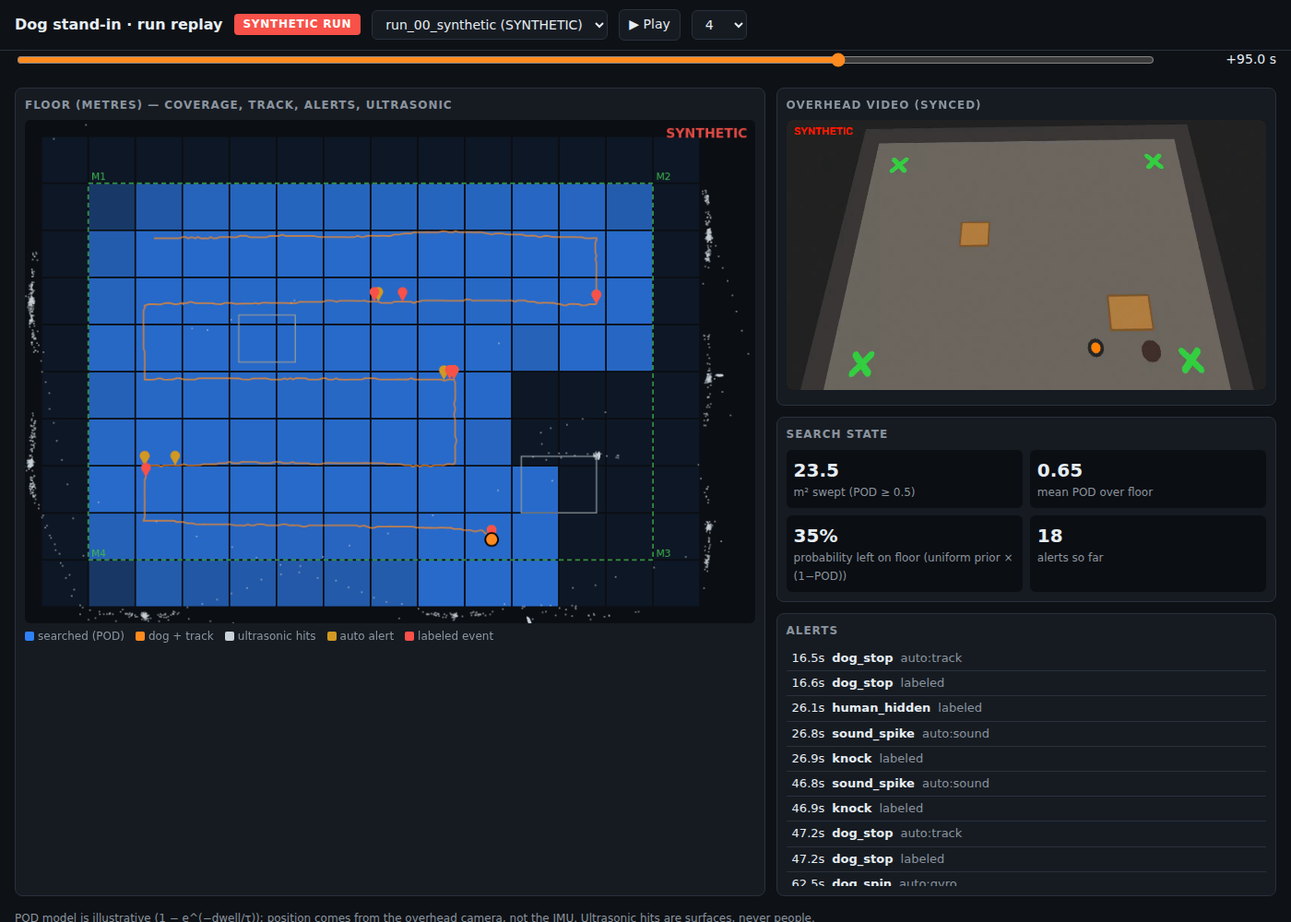
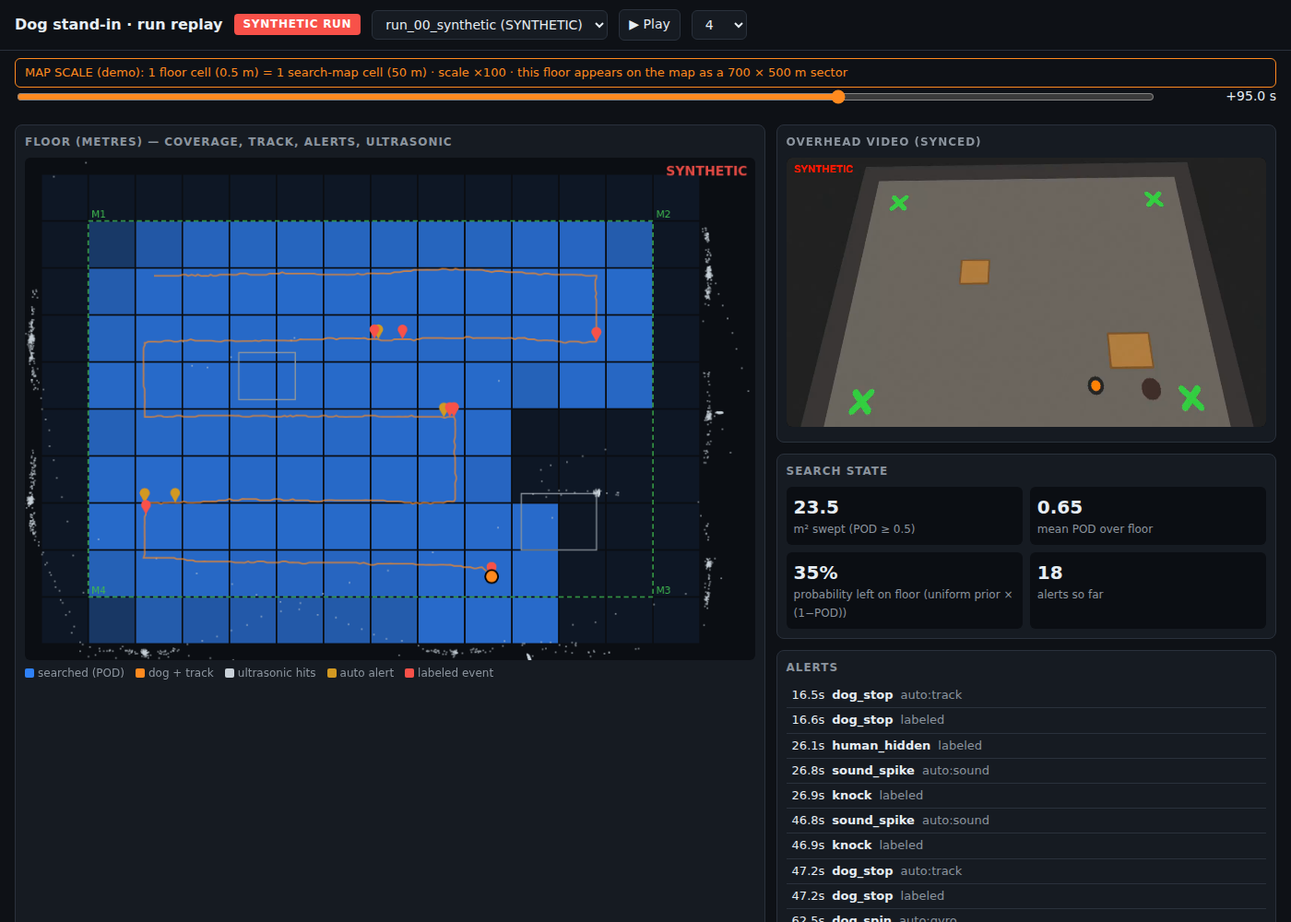
night: a-u-G/a-f-G pin types, review decisions

diff --git a/spark/night/code/map/index.html b/spark/night/code/map/index.html
@@ -130,7 +130,10 @@ function draw(){
   const P=META.personas[$('persona').value];
   if(layers.rings){ g.strokeStyle='rgba(255,255,255,.55)'; g.lineWidth=1*dpr; g.font=`${11*dpr}px system-ui`; g.fillStyle='rgba(255,255,255,.8)'; const [cx,cy]=W2S(0,0);
     P.q.forEach((r,i)=>{ g.beginPath(); g.arc(cx,cy,r*view.s*dpr,0,7); g.setLineDash([5*dpr,4*dpr]); g.stroke(); g.setLineDash([]); g.fillText(['25%','50%','75%','95%'][i]+' '+(r/1000)+' km',cx+r*view.s*dpr*0.707+4,cy-r*view.s*dpr*0.707); }); }
-  if(layers.dog && S.dog){ g.strokeStyle='#ff8a1f'; g.lineWidth=2*dpr; poly(S.dog.outline_en,true); g.stroke(); const [x,y]=W2S(S.dog.outline_en[0][0],S.dog.outline_en[0][1]); g.fillStyle='#ff8a1f'; g.font=`bold ${11*dpr}px system-ui`; g.fillText('dog sector'+(S.dog.synthetic?' (SYNTHETIC)':''),x,y-5*dpr); }
+  if(layers.dog && S.dog){ g.strokeStyle='#ff8a1f'; g.lineWidth=2*dpr; poly(S.dog.outline_en,true); g.stroke(); const [x,y]=W2S(S.dog.outline_en[0][0],S.dog.outline_en[0][1]); g.fillStyle='#ff8a1f'; g.font=`bold ${11*dpr}px system-ui`; const l1='dog sector'+(S.dog.synthetic?' (SYNTHETIC)':''), l2=`1 floor cell (${S.dog.floor_cell_m} m) = 1 map cell (${S.dog.map_cell_m} m)`;
+    g.font=`bold ${12*dpr}px system-ui`; const w=Math.max(g.measureText(l1).width,g.measureText(l2).width)+12*dpr;
+    g.fillStyle='rgba(14,17,22,.88)'; g.fillRect(x-2*dpr,y-36*dpr,w,32*dpr); g.strokeStyle='#ff8a1f'; g.lineWidth=1*dpr; g.strokeRect(x-2*dpr,y-36*dpr,w,32*dpr);
+    g.fillStyle='#ff8a1f'; g.fillText(l1,x+4*dpr,y-22*dpr); g.font=`bold ${11.5*dpr}px system-ui`; g.fillText(l2,x+4*dpr,y-8*dpr); }
   // IPP
   { const [x,y]=W2S(0,0); g.fillStyle='#fff'; g.strokeStyle='#000'; g.lineWidth=2*dpr; g.beginPath(); g.moveTo(x,y-9*dpr); g.lineTo(x+7*dpr,y+5*dpr); g.lineTo(x-7*dpr,y+5*dpr); g.closePath(); g.fill(); g.stroke(); g.font=`bold ${11*dpr}px system-ui`; g.fillText('IPP/LKP',x+9*dpr,y+4*dpr); }
   // clues
@@ -177,7 +180,7 @@ async function load(){
   $('clist').innerHTML=(S.clues||[]).slice().reverse().map(c=>`<div class="clue ${c.active?'':'off'}"><b>K${c.i} ${c.label}</b> <button onclick="toggle(${c.i})">${c.active?'disable':'enable'}</button><br>${c.note?c.note+'<br>':''}${c.pod!==undefined?'POD '+c.pod+(c.pod_calc?' = '+c.pod_calc:'')+'<br>':''}${c.photo?'photo sha256 '+c.photo_sha256.slice(0,12)+'…<br>':''}<span>${c.prov}</span>${c.proposed_by?'<br>type proposed by '+c.proposed_by:''}<br>by ${c.operator} · ${new Date(c.t*1000).toLocaleTimeString()}</div>`).join('')||'none yet';
   $('cap').textContent=(100*S.probability_captured).toFixed(2)+' %';
   $('dogrun').innerHTML=S.dog?(S.dog.run+(S.dog.synthetic?' <span class="badge syn">SYNTHETIC</span>':'')):'—';
-  $('dognote').textContent=S.dog?`Demo scaling: 1 floor metre = ${S.dog.scale} map metres (the venue floor stands in for a ${Math.round(6*S.dog.scale)} × ${Math.round(4*S.dog.scale)} m sector). POD per cell from the rover's dwell model (illustrative).`:'';
+  $('dognote').innerHTML=S.dog?`<b style="color:var(--acc)">Demo scale: 1 floor cell (${S.dog.floor_cell_m} m) = 1 map cell (${S.dog.map_cell_m} m)</b> (×${S.dog.scale}); the venue floor stands in for a ${S.dog.sector_m[0]} × ${S.dog.sector_m[1]} m sector.${S.dog.cells_match?'':' WARNING: cells do not match.'} POD per cell from the rover's dwell model (illustrative).`:'';
   draw();
 }
 async function pollContacts(){ try{ const r=await (await fetch('api/contacts')).json(); const lat0=META.lkp.lat, lon0=META.lkp.lon, R=6371008.8;

diff --git a/spark/night/code/fusion/console.html b/spark/night/code/fusion/console.html
@@ -34,7 +34,7 @@ pre{white-space:pre-wrap;word-break:break-all;font-size:11.5px;margin:0;color:#c
   <div class="card"><h2>Contacts (nothing is confirmed without a human)</h2>
     <table><thead><tr><th>id</th><th>p(person)</th><th>sources</th><th>where</th><th>status</th><th></th></tr></thead><tbody id="ct"></tbody></table></div>
   <div class="card"><h2>After-action review</h2><div class="kv" id="aar"></div></div>
-  <div class="card"><h2>Last CoT (validated against cot-validator XSD)</h2><pre id="cot">—</pre></div>
+  <div class="card"><h2>Last CoT pin (a-u-G unconfirmed → a-f-G confirmed; validated against cot-validator XSD)</h2><pre id="cot">—</pre></div>
 </div>
 <div class="card chain"><h2>Evidence chain (SHA-256, newest first)</h2><div id="chain"></div></div>
 </main>
@@ -54,8 +54,8 @@ async function refresh(){
     <td class="st-${c.status}">${c.status}${c.operator_id?'<br><span class=src>'+esc(c.operator_id)+'</span>':''}</td>
     <td>${c.status==='candidate'?`<button class="go" onclick="act('confirm','${c.contact_id}')">Confirm</button> <button class="no" onclick="act('clear','${c.contact_id}')">Clear</button>`:''}</td></tr>`).join('')||'<tr><td colspan=6 class=src>no contacts yet — sensors write to night/inbox/</td></tr>';
   const lastCot=[...ch].reverse().find(r=>r.type==='cot_written');
-  if(lastCot && lastCot.payload.contact_id!==window._cotShown){ window._cotShown=lastCot.payload.contact_id;
-    fetch('cot/'+lastCot.payload.contact_id).then(r=>r.text()).then(x=>{ $('cot').textContent=(lastCot.payload.valid?'✔ valid against ':'✘ INVALID against ')+lastCot.payload.xsd+'  sha256 '+lastCot.payload.sha256.slice(0,16)+'…\n\n'+x; }); }
+  if(lastCot && lastCot.payload.sha256!==window._cotShown){ window._cotShown=lastCot.payload.sha256;
+    fetch('cot/'+lastCot.payload.contact_id).then(r=>r.text()).then(x=>{ $('cot').textContent=lastCot.payload.contact_id+' '+lastCot.payload.type+' ('+lastCot.payload.status+') · '+(lastCot.payload.valid?'✔ valid against ':'✘ INVALID against ')+lastCot.payload.xsd+'  sha256 '+lastCot.payload.sha256.slice(0,16)+'…\n\n'+x; }); }
   $('chain').innerHTML=ch.reverse().map(r=>`<div><b>#${r.seq}</b> ${r.type} <span class="src">${r.ts.slice(11,19)}Z</span> ${r.payload.sensor?esc(r.payload.sensor+':'+r.payload.kind):''}${r.payload.contact?esc(r.payload.contact.contact_id):''}<br><code>${r.hash.slice(0,24)}… ← ${r.prev.slice(0,12)}…</code></div>`).join('');
   const f=x=>x==null?'—':x;
   $('aar').innerHTML=`<span>time to first contact</span><b>${f(a.time_to_first_contact_s)} s</b>

diff --git a/spark/night/code/dog/replay.html b/spark/night/code/dog/replay.html
@@ -42,6 +42,7 @@ footer{color:var(--mute);font-size:12px;padding:4px 16px 16px}
   <button id="play">▶ Play</button>
   <select id="speed" aria-label="Speed"><option>1</option><option selected>4</option><option>8</option><option>16</option></select>
 </header>
+<div id="scalebar" style="margin:8px 16px 0;padding:6px 10px;border:1px solid var(--acc);border-radius:6px;color:var(--acc);font-size:13px">map scale: loading…</div>
 <div class="timeline"><input id="scrub" type="range" min="0" max="1000" value="0" aria-label="Time"><span id="clock">—</span></div>
 <main>
   <div class="card">
@@ -78,10 +79,14 @@ async function loadRuns(){
   $('run').innerHTML=r.map(x=>`<option value="${x.name}">${x.name}${x.synthetic?' (SYNTHETIC)':''}</option>`).join('');
   if(r.length) load(r[0].name);
 }
+async function scaleLabel(){ try{ const k=await (await fetch('api/scale')).json(); const fc=L?L.coverage.cell_m:0.5;
+  const ok=Math.abs(fc*k.scale-k.map_cell_m)<1e-6; const [x0,y0,x1,y1]=L?L.floor_bounds:[0,0,6,4];
+  $('scalebar').textContent=`MAP SCALE (demo): 1 floor cell (${fc} m) = 1 search-map cell (${k.map_cell_m} m) · scale ×${k.scale} · this floor appears on the map as a ${Math.round((x1-x0)*k.scale)} × ${Math.round((y1-y0)*k.scale)} m sector`+(ok?'':' · WARNING: cells do not match');
+ }catch(e){ $('scalebar').textContent='map scale: unavailable'; } }
 async function load(name){
   runName=name; L=await (await fetch(`api/run/${name}/layers`)).json();
   $('badge').textContent=L.synthetic?'SYNTHETIC RUN':'REAL RUN'; $('badge').className='badge '+(L.synthetic?'syn':'real');
-  $('vid').src=`api/run/${name}/video`; t=L.t_start_ms; draw();
+  $('vid').src=`api/run/${name}/video`; t=L.t_start_ms; draw(); scaleLabel();
 }
 $('run').onchange=e=>load(e.target.value);
 function W2C(){ const [x0,y0,x1,y1]=L.floor_bounds, pad=20; const s=Math.min((cv.width-2*pad)/(x1-x0),(cv.height-2*pad)/(y1-y0));

diff --git a/spark/night/code/fusion/fuse.py b/spark/night/code/fusion/fuse.py
@@ -11,8 +11,11 @@ Nothing becomes confirmed without POST /confirm {contact_id, operator_id}.
 Evidence: every ingested detection, new contact, contact update, confirm, clear and CoT write is
   appended to night/evidence/chain.jsonl as {seq, ts, type, payload, prev, hash} with
   hash = sha256(prev + canonical_json({seq, ts, type, payload})). GET /verify re-walks the chain.
-CoT: each confirmed contact -> night/evidence/cot/<uid>.xml, validated against the cot-validator
-  XSD ("Marker - 2525.xsd"); validation result is chained too.
+CoT: every contact is emitted as CoT, validated against the cot-validator XSD ("Marker - 2525.xsd"):
+  candidate -> type a-u-G (unknown ground); after a human confirms, the SAME uid is re-emitted as
+  a-f-G (friendly ground) so ATAK updates the pin in place. a-h-* (hostile) is refused: a survivor is not
+  hostile. Files: evidence/cot/<uid>.xml (current) + <uid>.candidate.xml / <uid>.confirmed.xml; every
+  write is chained (type, XSD result, sha256).
 
   python fuse.py [port]          # service
   python fuse.py --verify        # verify chain, exit 1 on break
@@ -104,16 +107,30 @@ def verify_chain(path: Path = CHAIN) -> dict:
 
 
 # ---------------- CoT ----------------
+def cot_type(status: str) -> str:
+    cc = CFG["cot"]
+    t = cc["type_confirmed"] if status == "confirmed" else cc["type_candidate"]
+    if t.lower().startswith("a-h"):
+        raise ValueError(f"refusing CoT type {t}: a survivor is not hostile (use a-u-G / a-f-G)")
+    return t
+
+
+for _st in ("candidate", "confirmed"):      # fail at start-up, not mid-demo, if the config is wrong
+    cot_type(_st)
+
+
 def cot_xml(c: dict) -> str:
     now = datetime.now(timezone.utc)
     f = lambda d: d.strftime("%Y-%m-%dT%H:%M:%S.%f")[:-3] + "Z"  # noqa: E731
     cc = CFG["cot"]; uid = cc["uid_prefix"] + c["contact_id"]
+    typ = cot_type(c.get("status", "candidate"))
     srcs = ", ".join(f"{s['sensor']}:{s['kind']}={s['confidence']:.2f}" for s in c["sources"])
-    remarks = (f"p_person={c['p_person']:.2f}; sources: {srcs}; confirmed by {c['operator_id']} at {c['confirmed_at']}; "
-               f"evidence chain seq {c.get('chain_seq')}")
+    who = (f"CONFIRMED by {c['operator_id']} at {c['confirmed_at']}" if c.get("status") == "confirmed"
+           else "UNCONFIRMED candidate: machine detection, awaiting human confirm")
+    remarks = f"p_person={c['p_person']:.2f}; sources: {srcs}; {who}; evidence chain seq {c.get('chain_seq')}" 
     from xml.sax.saxutils import quoteattr, escape
     return (f'<?xml version="1.0" encoding="UTF-8"?>\n'
-            f'<event version="2.0" uid={quoteattr(uid)} type="{cc["type"]}" time="{f(now)}" start="{f(now)}" '
+            f'<event version="2.0" uid={quoteattr(uid)} type="{typ}" time="{f(now)}" start="{f(now)}" '
             f'stale="{f(now + timedelta(minutes=cc["stale_min"]))}" how="{cc["how"]}">'
             f'<point lat="{c["lat"]:.7f}" lon="{c["lon"]:.7f}" hae="9999999.0" ce="{c["ce_m"]:.1f}" le="9999999.0"/>'
             f'<detail><contact callsign={quoteattr("LF " + c["contact_id"] + " p=" + format(c["p_person"], ".2f"))}/>'
@@ -208,8 +225,23 @@ class Fusion:
             fs = float(CFG["floor_anchor"].get("scale", 1.0))
             best["ce_m"] = round(1.0 * fs if frame == "floor" else 10.0 if k > 1 else 25.0, 1)
             best["lat"], best["lon"] = en_to_ll(best["e"], best["n"])
-            self.chain.append(typ, {"contact": self.public(best), "by_detection": det["chain_seq"]})
+            rec = self.chain.append(typ, {"contact": self.public(best), "by_detection": det["chain_seq"]})
+            best["chain_seq"] = rec["seq"]
+            self.write_cot(best)       # a-u-G while candidate; a confirmed contact stays a-f-G on updates
             return best
+
+    def write_cot(self, c: dict) -> dict:
+        xml = cot_xml(c)
+        ok, msg = validate_cot(xml)
+        out = EVID / "cot"; out.mkdir(parents=True, exist_ok=True)
+        base = f"{CFG['cot']['uid_prefix']}{c['contact_id']}"
+        path = out / f"{base}.xml"; path.write_text(xml)
+        (out / f"{base}.{c.get('status', 'candidate')}.xml").write_text(xml)
+        typ = cot_type(c.get("status", "candidate"))
+        self.chain.append("cot_written", {"contact_id": c["contact_id"], "type": typ, "status": c.get("status"),
+                                          "path": str(path), "xsd": XSD.name, "valid": ok, "detail": msg,
+                                          "sha256": hashlib.sha256(xml.encode()).hexdigest()})
+        return {"cot_path": str(path), "cot_valid": ok, "cot_detail": msg, "cot_type": typ}
 
     def public(self, c):
         return {k: v for k, v in c.items() if not k.startswith("_")}
@@ -225,13 +257,7 @@ class Fusion:
             c["confirmed_at"] = datetime.now(timezone.utc).isoformat(timespec="seconds")
             rec = self.chain.append("contact_confirmed", {"contact": self.public(c), "operator_id": operator_id})
             c["chain_seq"] = rec["seq"]
-            xml = cot_xml(c)
-            ok, msg = validate_cot(xml)
-            out = EVID / "cot"; out.mkdir(parents=True, exist_ok=True)
-            path = out / f"{CFG['cot']['uid_prefix']}{cid}.xml"; path.write_text(xml)
-            self.chain.append("cot_written", {"contact_id": cid, "path": str(path), "xsd": XSD.name, "valid": ok,
-                                              "detail": msg, "sha256": hashlib.sha256(xml.encode()).hexdigest()})
-            return {"contact": self.public(c), "cot_path": str(path), "cot_valid": ok, "cot_detail": msg}
+            return {"contact": self.public(c), **self.write_cot(c)}     # same uid re-emitted as a-f-G
 
     def clear(self, cid, operator_id, reason=""):
         with self.lock:

diff --git a/spark/night/code/tests/test_night.py b/spark/night/code/tests/test_night.py
@@ -60,12 +60,20 @@ def test_fusion_confirm_cot_chain(client):
     assert {s["sensor"] for s in floor["sources"]} == {"dog1", "tap3"}
     assert abs(floor["p_person"] - (1 - (1 - .3 * .3) * (1 - .85 * .95))) < 1e-3
     assert floor["status"] == "candidate"
+    cand = c.get(f"/cot/{floor['contact_id']}").text            # unconfirmed contact -> a-u-G, XSD-valid
+    assert 'type="a-u-G"' in cand and "UNCONFIRMED" in cand
+    assert fuse.validate_cot(cand)[0]
     r = c.post("/confirm", json={"contact_id": floor["contact_id"], "operator_id": "op1"})
-    assert r.status_code == 200 and r.json()["cot_valid"], r.text
+    assert r.status_code == 200 and r.json()["cot_valid"] and r.json()["cot_type"] == "a-f-G", r.text
     assert c.post("/confirm", json={"contact_id": "C99", "operator_id": "op1"}).status_code == 404
     assert c.post("/confirm", json={"contact_id": floor["contact_id"], "operator_id": ""}).status_code == 422
-    xml = c.get(f"/cot/{floor['contact_id']}").text
-    assert 'type="a-h-G"' in xml and "op1" in xml
+    xml = c.get(f"/cot/{floor['contact_id']}").text            # same uid re-emitted as friendly
+    assert 'type="a-f-G"' in xml and "CONFIRMED by op1" in xml
+    uid = 'uid="NIGHT-' + floor["contact_id"] + '"'
+    assert uid in xml and uid in cand
+    assert "a-h" not in xml and "a-h" not in cand
+    types = [x["payload"]["type"] for x in c.get("/chain?tail=500").json() if x["type"] == "cot_written"]
+    assert "a-u-G" in types and types[-1] == "a-f-G" and not any(t.startswith("a-h") for t in types)
     v = c.get("/verify").json()
     assert v["ok"] and v["records"] >= 6
 
@@ -93,12 +101,18 @@ def test_inbox_rejects_malformed(client):
     assert any(r["type"] == "inbox_rejected" for r in c.get("/chain").json())
 
 
-def test_cot_xsd_rejects_bad_lat():
+def test_cot_xsd_and_type_guard(monkeypatch):
     sys.modules.pop("fuse", None)
     import fuse
-    x = fuse.cot_xml({"contact_id": "C1", "lat": 200.0, "lon": 0.0, "ce_m": 5, "p_person": .5, "sources": [],
-                      "operator_id": "o", "confirmed_at": "t"})
-    assert not fuse.validate_cot(x)[0]
+    base = {"contact_id": "C1", "lat": 41.3, "lon": -81.75, "ce_m": 5, "p_person": .5, "sources": [],
+            "operator_id": "o", "confirmed_at": "t"}
+    for st, typ in (("candidate", "a-u-G"), ("confirmed", "a-f-G")):
+        x = fuse.cot_xml({**base, "status": st})
+        assert f'type="{typ}"' in x and fuse.validate_cot(x)[0]
+    assert not fuse.validate_cot(fuse.cot_xml({**base, "lat": 200.0}))[0]        # XSD rejects bad lat
+    monkeypatch.setitem(fuse.CFG["cot"], "type_confirmed", "a-h-G")              # hostile is refused
+    with pytest.raises(ValueError):
+        fuse.cot_xml({**base, "status": "confirmed"})
 
 
 # ---------------- map model ----------------

diff --git a/spark/night/code/map/serve.py b/spark/night/code/map/serve.py
@@ -76,7 +76,9 @@ def dog_coverage():
     x0, y0, x1, y1 = L["floor_bounds"]
     outline = [floor_to_en(x, y) for x, y in [(x0, y0), (x1, y0), (x1, y1), (x0, y1)]]
     return {"run": runs[0].parent.name, "synthetic": L.get("synthetic", False), "outline_en": outline,
-            "cell_map_m": C["cell_m"] * k, "scale": k}, cells
+            "cell_map_m": C["cell_m"] * k, "scale": k, "floor_cell_m": C["cell_m"], "map_cell_m": M.CELL,
+            "cells_match": abs(C["cell_m"] * k - M.CELL) < 1e-6,
+            "sector_m": [round((x1 - x0) * k), round((y1 - y0) * k)]}, cells
 
 
 def b64(a):

diff --git a/spark/night/code/dog/serve.py b/spark/night/code/dog/serve.py
@@ -46,6 +46,15 @@ def video(name: str):
     return FileResponse(p, media_type="video/mp4")
 
 
+@app.get("/api/scale")
+def scale():
+    """Floor -> search-map scaling used by fusion and the map (config.json floor_anchor.scale)."""
+    cfg = json.loads((HERE.parent / "config.json").read_text())
+    k = float(cfg["floor_anchor"].get("scale", 1.0))
+    map_cell = 50.0      # map/model.py CELL
+    return {"scale": k, "map_cell_m": map_cell, "floor_cell_m_equiv": map_cell / k}
+
+
 @app.get("/health")
 def health():
     return {"ok": True}

diff --git a/spark/night/README.md b/spark/night/README.md
@@ -29,9 +29,9 @@ Python: `~/forge/.venv/bin/python`. Two extra packages live in `night/vendor/` s
 
 **Perch and Listen (`perch/`).** One DroneAudioSet configuration (60 dB, room1, drone1, speaker 1 m, mic3 array). The same 5 s of speech with rotors off scores P(human voice) 0.80–0.89 (PANNs) / 0.68–0.93 (AST). With rotors on it scores 0.02–0.04, and the top tag becomes Helicopter or Hum. A linear probe on frozen AST embeddings, tested on an unseen room, reaches human-voice F1 0.59 at throttle low and 0.08 at throttle high (zero-shot AST: 0.00). **Limits:** the probe uses teacher labels (PANNs on the clean source), the rooms share source content, and the drone is on a frame. Details: `perch/RESULTS.md`.
 
-**Fusion + evidence (`fusion/`).** Detections in floor metres or lat/lon are put into one local frame. Clustering radius is 2 m on the floor / 25 m geo. Confidence is noisy-OR over (sensor, kind) pairs, using the spec's modality weights. `POST /confirm` requires an operator id. The chain line is `hash = sha256(prev + canonical record)`; `/verify` re-walks the chain, and an edited record breaks it at that line (tested). A restart rebuilds state from the chain. Each confirmed contact becomes CoT XML validated against the cot-validator XSD (`Marker - 2525.xsd`). Type is `a-h-G` as the master prompt asks. **Note:** `a-h` means *hostile* in MIL-STD-2525. The earlier spec used `a-u-G` (unknown), which is safer for a survivor on a shared ATAK picture. It is one line in `config.json` (`cot.type`). `aar.py` reports time to first contact, time to confirm, area covered and probability captured (and per hour).
+**Fusion + evidence (`fusion/`).** Detections in floor metres or lat/lon are put into one local frame. Clustering radius is 2 m on the floor / 25 m geo. Confidence is noisy-OR over (sensor, kind) pairs, using the spec's modality weights. `POST /confirm` requires an operator id. The chain line is `hash = sha256(prev + canonical record)`; `/verify` re-walks the chain, and an edited record breaks it at that line (tested). A restart rebuilds state from the chain. Every contact is emitted as CoT XML validated against the cot-validator XSD (`Marker - 2525.xsd`). An **unconfirmed contact is `a-u-G`** (unknown ground). When a human confirms it, the **same uid is re-sent as `a-f-G`** (friendly ground), so ATAK updates the pin in place instead of adding a second one. **`a-h-*` (hostile) is never used: a survivor is not hostile.** `fuse.py` refuses any `a-h` type at start-up and at write time, and a test checks this. Files: `evidence/cot/NIGHT-Cxx.xml` (current) plus `.candidate.xml` / `.confirmed.xml`. Every pin write is chained with its type, XSD result and sha256. Sample pins are in `sample_pins/` in the repo copy. `aar.py` reports time to first contact, time to confirm, area covered and probability captured (and per hour).
 
-**Persona Search Map + Clue Engine (`map/`).** A 20 × 20 km grid of 50 m cells around the LKP, built from OSM (roads, trails, water, 35k buildings) and the 1-arc-second DEM. The prior is fitted by iterative proportional fitting so that **both** Koester 2020 marginals hold exactly: distance quantiles (Table 3) and find-location shares (Table 7). Example: 78 % of ASD mass sits in structure cells and 50 % inside 0.9 km. Uncertainty comes from 40 Monte Carlo draws whose spread follows each persona's sample size. The Clue Engine has 8 clue types; posterior ∝ prior × LR(cell) × (1 − POD of searched areas). Searched-area POD uses Koester 2020 sweep widths (64 m day / 22 m night) with the exponential coverage model. Each clue shows its provenance, and positive-clue LRs are labelled hand-set expert priors. Clue and persona changes go onto the fusion chain. Dog coverage subtracts at a **labelled demo scale** (1 floor m = 50 map m). Optional Qwen3-VL clue-type proposals degrade gracefully when :8002 is down. **Limits:** autistic and TD-child personas are verified; hiker, hunter and dementia are ILLUSTRATIVE. Table 7 says ASD subjects are found near water *less* often than TD children (5 % vs 8 %), so the map does not boost water for ASD even though the master prompt suggested it. Because distance and terrain class are fitted as independent marginals, the 3 structure cells inside 400 m (the park shelter) hold 18 % of the mass.
+**Persona Search Map + Clue Engine (`map/`).** A 20 × 20 km grid of 50 m cells around the LKP, built from OSM (roads, trails, water, 35k buildings) and the 1-arc-second DEM. The prior is fitted by iterative proportional fitting so that **both** Koester 2020 marginals hold exactly: distance quantiles (Table 3) and find-location shares (Table 7). Example: 78 % of ASD mass sits in structure cells and 50 % inside 0.9 km. Uncertainty comes from 40 Monte Carlo draws whose spread follows each persona's sample size. The Clue Engine has 8 clue types; posterior ∝ prior × LR(cell) × (1 − POD of searched areas). Searched-area POD uses Koester 2020 sweep widths (64 m day / 22 m night) with the exponential coverage model. Each clue shows its provenance, and positive-clue LRs are labelled hand-set expert priors. Clue and persona changes go onto the fusion chain. Dog coverage subtracts at a **labelled demo scale: 1 dog floor cell (0.5 m) = 1 map cell (50 m)**, i.e. ×100, so the 7 × 5 m floor (taped area plus margin) stands in for a 700 × 500 m sector. The label is on the replay page and on the map. Optional Qwen3-VL clue-type proposals degrade gracefully when :8002 is down. **Limits:** autistic and TD-child personas are verified; hiker, hunter and dementia are ILLUSTRATIVE. Table 7 says ASD subjects are found near water *less* often than TD children (5 % vs 8 %), so the map does not boost water for ASD even though the master prompt suggested it (review decision, Nov 8: keep the data-driven weighting and the on-screen note). Because distance and terrain class are fitted as independent marginals, the 3 structure cells inside 400 m (the park shelter) hold 18 % of the mass.
 
 ## Background watcher
 `watch_data.py` (started by hand at 00:59; `./stop_all.sh` stops it) polls every 30 s. When a real dog run folder appears in `night/data/dog/` (or in `~/projects/Team-3/data/dog/`, symlinked in, read-only), it runs `dog/process_run.sh` on it. When new WAVs land in `night/data/tap3/`, it re-runs `tap3/eval.py`. Results and failures are logged to `WORKLOG.md`. Restart it with `( cd ~/forge/night && exec nohup ~/forge/.venv/bin/python watch_data.py > logs/watch.log 2>&1 ) &`.
@@ -42,4 +42,4 @@ Python: `~/forge/.venv/bin/python`. Two extra packages live in `night/vendor/` s
 - The geophone sample rate is not in the dataset file, so false-alarm rates are reported at three plausible rates.
 
 ---
-*Repo copy:* `code/` mirrors `~/forge/night` on the Spark, without data, vendor packages, logs or evidence. Run it from `~/forge/night`, where datasets and models are in place. Screenshots are in `screenshots/`; raw result JSON sits next to the RESULTS files.
+*Repo copy:* `code/` mirrors `~/forge/night` on the Spark, without data, vendor packages, logs or evidence. Run it from `~/forge/night`, where datasets and models are in place. Screenshots are in `screenshots/`; raw result JSON sits next to the RESULTS files; `sample_pins/` holds one contact's CoT before (a-u-G) and after (a-f-G) human confirm.

diff --git a/spark/night/DEMO_FLOW.md b/spark/night/DEMO_FLOW.md
@@ -13,12 +13,12 @@
 | 1:30 | map :8143 | persona Autistic, rings visible; point at the VERIFIED badge and the class table | "Persona 2: a lost autistic child. This prior is Koester 2020: distance rings from Table 3, and 78 % of the mass in structures from Table 7, fitted together. Switch to Typical child and watch it spread out." |
 | 2:30 | map | layer → uncertainty | "Every cell carries its uncertainty from the sample size: 233 subjects vs 903. Hiker, hunter and dementia are marked illustrative." |
 | 3:00 | terminal | `~/forge/.venv/bin/python scenario.py --speed 4 --no-tap` (or without `--no-tap` if there is no mic) | "The dog goes in. Tonight it's a rover with an IMU, ultrasonic and sound sensors, tracked from an overhead phone, the way a drone would track a real dog." |
-| 3:10 | dog :8141 | Play ×4: cells shade, the track draws, pins drop, ultrasonic outlines the walls | "Blue is where it has searched. Pins are where it stopped, spun, or heard a knock. The grey dots are walls from the ultrasonic. Surfaces, never people." (Say SYNTHETIC if real runs haven't landed.) |
-| 4:30 | fusion :8140 | candidates appear (C01–C04, p 0.09–0.49) | "Every dog alert lands here as a candidate contact with a confidence. Nothing is confirmed by a machine." |
+| 3:10 | dog :8141 | Play ×4: cells shade, the track draws, pins drop, ultrasonic outlines the walls; the orange banner gives the map scale | "Blue is where it has searched. Pins are where it stopped, spun, or heard a knock. The grey dots are walls from the ultrasonic. Surfaces, never people." (Say SYNTHETIC if real runs haven't landed.) |
+| 4:30 | fusion :8140 | candidates appear (C01–C04, p 0.09–0.49) | "Every dog alert lands here as a candidate contact with a confidence. On ATAK it shows as an *unknown* pin, a-u-G. Nothing is confirmed by a machine." |
 | 5:00 | table + fusion | **tap three, pause, tap three** on the table with the contact mic (or let the scenario replay it) | "Someone trapped can't shout, but they can tap. Three even taps, twice." C04 jumps to ~0.91 with tap3:tap_pattern_3 in its sources. |
-| 5:40 | fusion | type an operator id → **Confirm** on C04 | "A human confirms. That writes an ATAK pin, validated against the CoT schema, and logs it on the hash chain with my name." Point at the green chain-OK pill and the CoT box. |
+| 5:40 | fusion | type an operator id → **Confirm** on C04 | "A human confirms. The same pin is re-sent as *friendly*, a-f-G, validated against the CoT schema, and logged on the hash chain with my name. Never hostile: a survivor is not a threat." Point at the green chain-OK pill and the CoT box (it shows a-u-G → a-f-G). |
 | 6:20 | perch :8142 | pick a window → Listen in flight → **Land, cut rotors** | "Why we listen from a perch: same speech, same second. Rotors on, the models hear a helicopter. Rotors off: Speech 0.87. Our probe on an unseen room gets F1 0.59 at low throttle and nothing at high throttle. So we land and listen." |
-| 7:20 | map :8143 | zoom to the dog sector (orange box): contacts are pinned, C04 is green, searched cells drop a band | "Back on the one screen: the searched sector is subtracted, the contacts sit on the map, probability re-ranks." |
+| 7:20 | map :8143 | zoom to the dog sector (orange box with its scale label): contacts are pinned, C04 is green, searched cells drop a band | "Back on the one screen: the searched sector is subtracted, the contacts sit on the map, probability re-ranks. Demo scale is on screen: one floor cell is one map cell, so this floor stands in for a 700 by 500 metre sector." |
 | 7:50 | map | Add clue → **Witness sighting** 1 h ago, click a spot → Add | "A neighbour saw her an hour ago. The map re-ranks, and the update carries its provenance: hand-set expert prior, not calibrated. That clue is on the evidence chain too." |
 | 8:40 | fusion | AAR panel; optionally `curl :8140/verify` | "Time to first contact, time to confirm, area covered, probability captured per hour, all recomputed from the chain. Edit one line of the log and verification fails at that line." |
 | 9:20 | — | wrap | "One shell, live sensors, a human on every decision, and an audit trail you can take to a debrief." |
